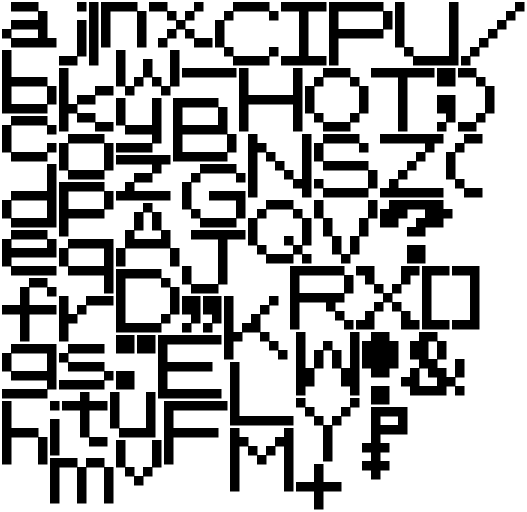
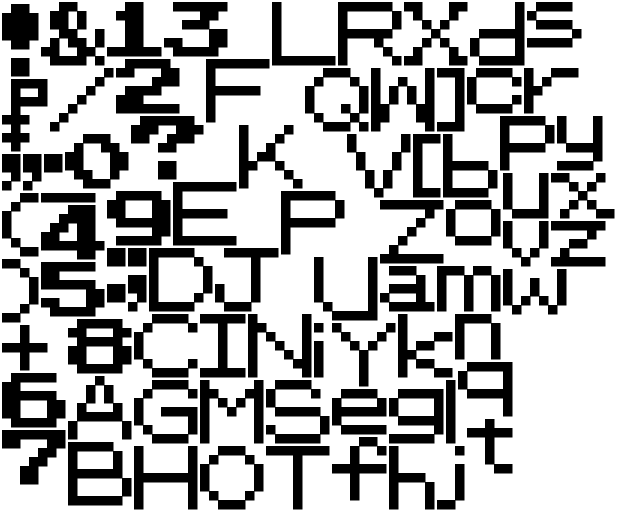
Fixed old pokemon font with new one, containing "Basic" chars. + minor refactoring.

diff --git a/games/pokemon/game.js b/games/pokemon/game.js
@@ -40,7 +40,7 @@ JackDanger.PokemonVadammt = function () {
 
 //hier musst du deine Eintragungen vornhemen.
 addMyGame("pokemon",    // ID
-    "JackDanger Pokemon",           // Anzeige-Name
+    "Pokemon",          // Anzeige-Name
     "Vadammt",          // Autor
     "Pokemon - nur ohne Pokemon.",  // Beschreibung
     "Steuerung",        //Steuerkreuz
@@ -520,10 +520,11 @@ JackDanger.PokemonVadammt.prototype.createHealthbar = function (xPos, yPos, widt
     // Indicator border
     var indicatorBorder = game.add.graphics(0, 0);
     indicatorBorder.lineStyle(2, 0x000000, 1);
-    indicatorBorder.drawRect(indicatorXPos, indicatorYPos, indicatorWidth, fontSize * 1.75);
+    indicatorBorder.drawRect(indicatorXPos, indicatorYPos, indicatorWidth, indicatorHeight);
 
     // Text
-    var hpText = game.add.bitmapText(xPos, indicatorYPos + 0.25 * fontSize, "pokemon_font", "HP    " + owner.hp, fontSize);
+    var hpTextStr = "HP " + owner.hp;
+    var hpText = game.add.bitmapText(xPos, indicatorYPos + 0.25 * fontSize, "pokemon_font", hpTextStr, fontSize);
     hpText.anchor.x = 0;
     hpText.anchor.y = 0;
 
